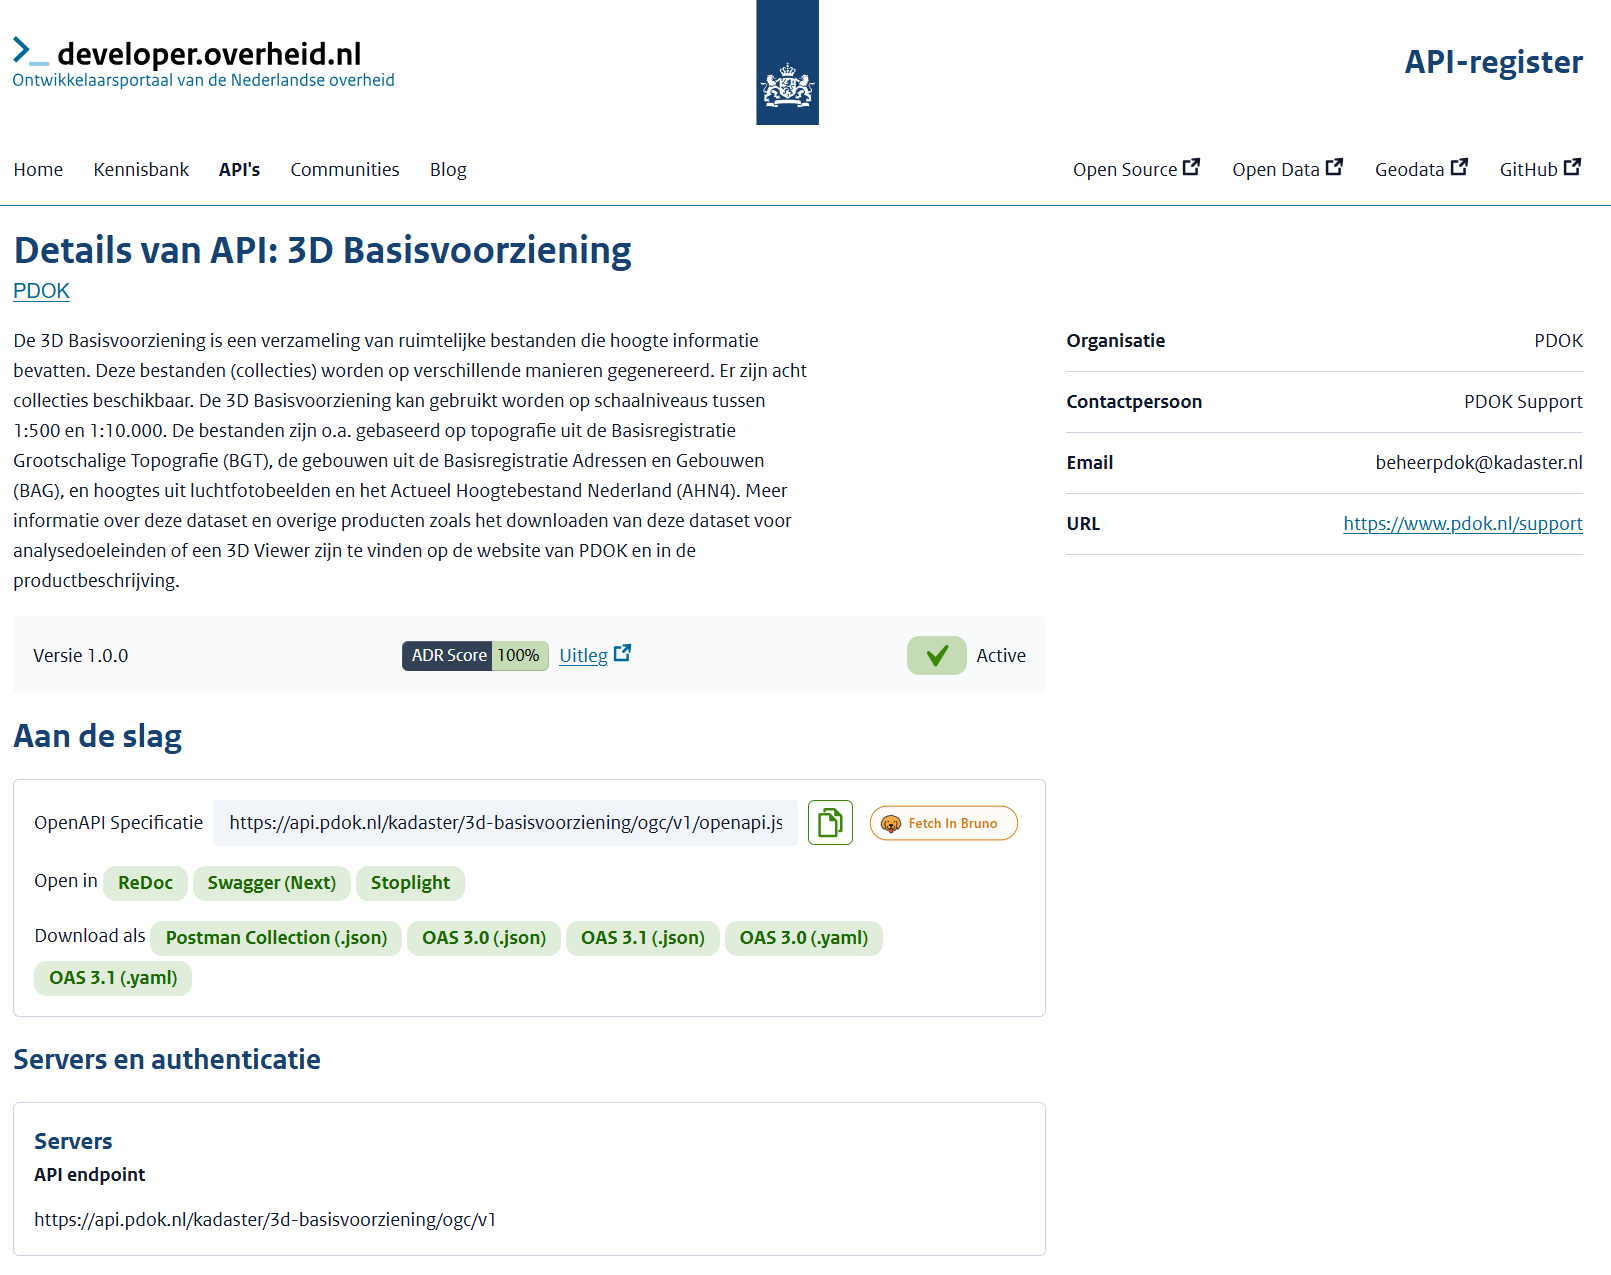
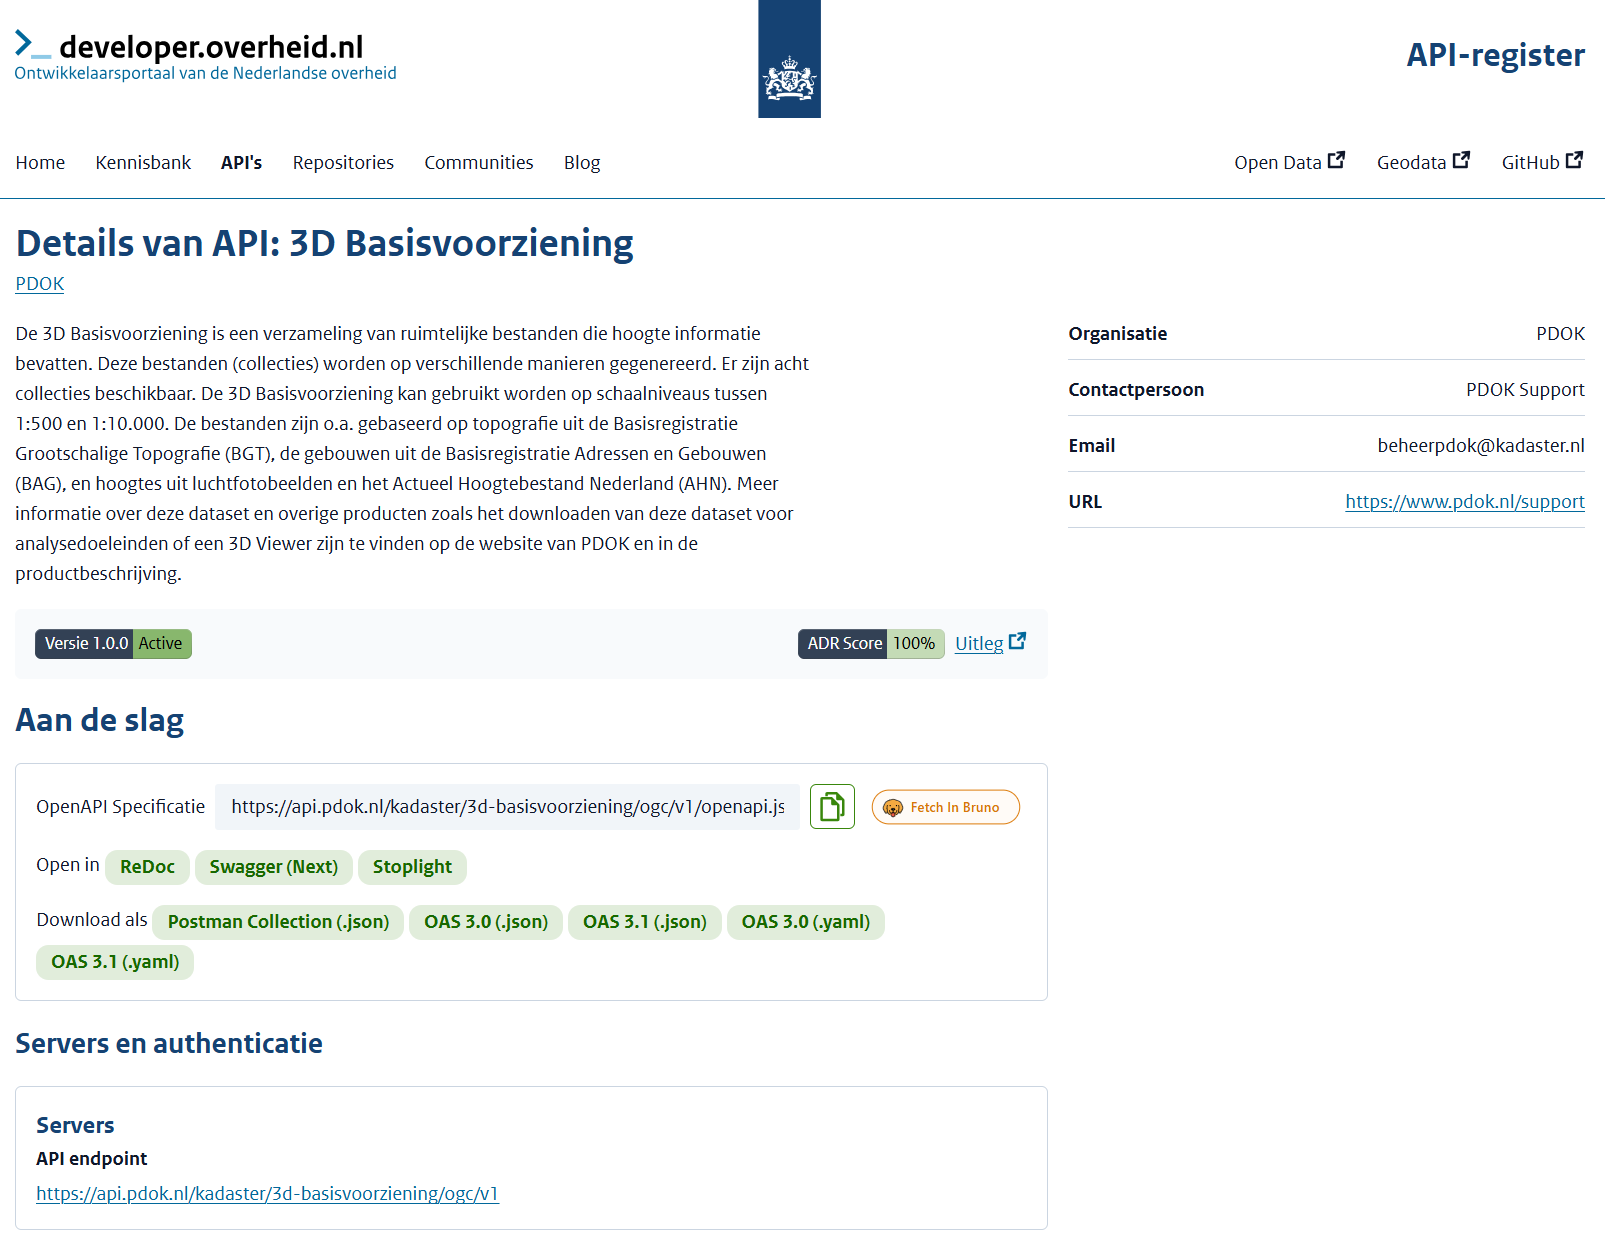
update

diff --git a/shows/fost-amsterdam-schemas/index.md b/shows/fost-amsterdam-schemas/index.md
@@ -4,8 +4,7 @@ theme: don
 headingDivider: 2
 ---
 
-# A National Schema Register
-## Reusable Components for Government API Design
+# A National Schema Register: Reusable Components for Government API Design
 <!-- _class: title -->
 <br/>
 
@@ -16,9 +15,8 @@ June 2026
 ## Dimitri van Hees
 
 - API architect, consumer, provider, developer
-- Co-author DSO and NL Gov API Strategy
-- OpenAPI Specification contributor (via PTOLU)
-- Product Owner and API architect @ developer.overheid.nl
+- Contributor NL Gov API Strategy
+- Product Owner and API architect @ developer.overheid.nls
 - Co-owner and beer brewer @ Brouwtoren, Nijmegen
 
 ## The problem
@@ -27,7 +25,7 @@ June 2026
 ## We share more than we reuse
 
 - Hundreds of public-sector APIs
-- All describe the same things: organisations, addresses, persons, dates, money, errors
+- All describe the same things: organisations, addresses, persons, dates, errors
 - All do it slightly differently
 - Each team reinvents the same JSON Schemas
 - Each consumer writes the same mapping code
@@ -38,7 +36,7 @@ June 2026
 - "Organisation" identified by chamber-of-commerce number, OIN, or a TOOI URI
 - Error responses: plain JSON, RFC 7807, or homegrown
 - Money as `number`, `string`, or `{amount, currency}`
-- Dates as ISO 8601... usually
+- Examples
 
 ## Why this matters
 
@@ -52,7 +50,7 @@ June 2026
 <!-- _class: image -->
 ![ptlo](./ptolu.png)
 <!--
-- PTOLU = the Dutch OpenAPI initiative
+- PTOLU = comply or explain
 - We've standardised HOW we describe APIs (OAS) and HOW they behave (ADR)
 - Missing piece: WHAT goes inside the schemas
 -->
@@ -66,17 +64,17 @@ June 2026
 
 ## What it offers
 
-- **Discoverability** — search across all reusable schemas and components
-- **Reusability** — `$ref` from any OAS
-- **Versioning** — semver, with clear deprecation
-- **Documentation** — human-readable docs alongside the JSON
-- **Codegen** — TypeScript types, Java classes, etc.
-- **Schema Design Rules** — to push standardisation further
+- **Discoverability**: search across all reusable schemas and components
+- **Reusability**: `$ref` from any OAS
+- **Versioning**: semver, with clear deprecation
+- **Documentation**: human-readable docs alongside the JSON
+- **Codegen**: TypeScript types, Java classes, etc.
+- **Schema Design Rules**: to push standardisation further
 
 ## Two layers: schemas and components
 
-- **JSON Schemas** — pure data shapes (`address.json`, `organisation.json`)
-- **OpenAPI components** — OAS-specific reusable bits (headers, parameters, responses)
+- **JSON Schemas**: pure data shapes (`address.json`, `organisation.json`)
+- **OpenAPI components** OAS-specific reusable bits (headers, parameters, responses)
 
 ## Inspiration: DVLA
 <!-- _class: image -->
@@ -113,6 +111,7 @@ June 2026
 ```json
 {
   "$schema": "https://json-schema.org/draft/2020-12/schema",
+  "$id": "https://schemas.developer.overheid.nl/beer.json",
   "type": "object",
   "properties": {
     "name":    { "type": "string" },
@@ -121,23 +120,6 @@ June 2026
     }
   },
   "required": ["name", "brewery"]
-}
-```
-
-## Schemas reference schemas
-
-```json
-{
-  "$schema": "https://json-schema.org/draft/2020-12/schema",
-  "type": "object",
-  "properties": {
-    "name":    { "type": "string" },
-    "url":     { "type": "string" },
-    "address": {
-      "$ref": "https://schemas.developer.overheid.nl/address.json"
-    }
-  },
-  "required": ["name"]
 }
 ```
 
@@ -165,7 +147,7 @@ responses:
 
 ## Why design rules for schemas
 
-- ADR governs how an API behaves
+- API Design Rules (ADR) governs how an API behaves
 - The Schema Register governs **what canonical building blocks exist**
 - Schema Design Rules (SDR) govern **how to write reusable schemas**
 - Same idea, one layer deeper
@@ -174,24 +156,30 @@ responses:
 
 - Use JSON Schema draft 2020-12
 - One concept per schema, one schema per file
-- Canonical identifiers (TOOI URIs for organisations)
-- Required fields are declared, not implied
+- Title is mandatory
+- Description is mandatory
+- Required fields are declared
 - Examples are mandatory
 - Semantic versioning, with deprecation metadata
-- Naming: kebab-case files, camelCase properties
+- Naming conventions: `kebab-case` files, `camelCase` properties
+- Standardised extensions: `x-jsonld-*`
+
+## JSON-LD
+<!-- _class: image -->
+![jsonld](./json-ld.png)
 
 ## How it all fits together
 
-- **OAS** — how we describe APIs
-- **ADR** — how APIs behave
-- **Schema Register** — what we describe APIs *with*
-- **SDR** — how we write the schemas in the register
+- **OAS**: how we describe APIs
+- **ADR**: how APIs behave
+- **Schema Register**: what we describe APIs *with*
+- **SDR**: how we write the schemas in the register
 - One coherent stack, four standards, hundreds of APIs
 
 ## Tooling
 <!-- _class: title -->
 
-## DON Checker, now CLI-first
+## DON Checker
 
 ```bash
 npx @developer-overheid-nl/don-checker@latest \
@@ -204,6 +192,18 @@ npx @developer-overheid-nl/don-checker@latest \
 - Multiple versions per standard
 - Results grouped by severity: error, warning, info, hint
 - Same engine that runs in the API register
+
+## OAS Generator
+
+```bash
+npx github:developer-overheid-nl/oas-generator \
+  input.json \
+  -o openapi.json
+```
+
+- DRY principle
+- Consistent patterns
+- Boilerplate for AI agents (and humans)
 
 ## Codegen from canonical schemas
 
@@ -234,17 +234,17 @@ export interface Address {
 - Reuse only works if it's the easy path
 - Designers shouldn't have to hunt for the right schema
 - LLMs are very good at "find me the thing that matches this"
-- We use AI to pull canonical components into new designs
+- We can use AI to pull canonical components into new designs
 
 ## A typical workflow
 
 1. Describe the API in natural language
-2. AI proposes endpoints and request/response shapes
-3. AI searches the Schema Register for matching components
-4. Reuse where possible, propose new schemas where not
-5. Emit a complete OpenAPI 3.1 spec with `$ref`s to canonical schemas
-6. Validate against ADR + SDR
-7. Iterate
+1. Agent loads NL Gov Skills
+1. AI searches the Schema Register for matching components (MCP)
+1. Reuse where possible, propose new schemas where not
+1. Generate a complete OpenAPI 3.1 spec with `$ref`s to canonical schemas with our OAS generator
+1. Validate against ADR + SDR
+1. Iterate
 
 ## From prompt to spec
 
@@ -257,25 +257,14 @@ export interface Address {
 ## Demo
 <!-- _class: title -->
 
-## Project landscape
-<!-- _class: image -->
-![hla](./hla.png)
-
 ## Where it's headed
 
 - Open the register to broader contribution
 - Schema Design Rules → draft → comply-or-explain
 - JSON-LD coupling for semantics
-- New Kennisplatform API's working group: JSON Schema
-- Federate with other registers (TOOI, semantic registers, EU)
+- New API Knowledge Platform working group: JSON Schema
+- Federate with other registers (semantic registers, EU)
 - More AI skills, better feedback loops
-
-## How to help
-
-- Contribute schemas you already maintain
-- Review the draft Schema Design Rules
-- Try the tooling, file issues
-- Join the working group: <d.vanhees@geonovum.nl>
 
 ## Thank you!
 <!-- _class: title -->

diff --git a/shows/fost-amsterdam-don/index.md b/shows/fost-amsterdam-don/index.md
@@ -15,9 +15,8 @@ June 2026
 ## Dimitri van Hees
 
 - API architect, consumer, provider, developer
-- Co-author DSO and NL Gov API Strategy
-- OpenAPI Specification contributor (via PTOLU)
-- Product Owner and API architect @ developer.overheid.nl
+- Contributor NL Gov API Strategy
+- Product Owner and API architect @ developer.overheid.nls
 - Co-owner and beer brewer @ Brouwtoren, Nijmegen
 
 ## A quick rewind
@@ -42,7 +41,7 @@ June 2026
 - "It provides **self-service tools** to get devs integrated quickly and easily."
 - "And it gives folks **a place to go when they have questions**."
 
-https://www.opslevel.com/resources/developer-portals-what-are-they-and-why-do-you-need-them
+<https://www.opslevel.com/resources/developer-portals-what-are-they-and-why-do-you-need-them>
 
 ## developer.overheid.nl
 <!-- _class: title -->
@@ -58,21 +57,24 @@ https://www.opslevel.com/resources/developer-portals-what-are-they-and-why-do-yo
 - Tools
 - Open Source register
 - API register
+- Schema register
 
 ## Two audiences, one platform
 
 **For developers building on government APIs:**
+
 - Find the right API
 - Understand the rules of the road (ADR)
 - Self-serve docs, SDKs, mocks
 - Know when things change
 
 **For government organisations publishing APIs:**
+
 - A single, consistent place to be found
 - Free tooling and validation
 - Standardisation without losing autonomy
 
-## Why now?
+## Why it's more important than ever
 
 - Serious incidents with local copies of government data
 - "Data at the source" principle
@@ -106,26 +108,22 @@ Both on the Dutch "comply-or-explain" list, governed by Forum Standaardisatie an
 ## What we get from OAS
 
 - Name & description (`info`)
-- Contact info (`info.contact` — ADR 2.1)
+- Contact info (`info.contact`)
 - Environments (`servers`)
-- Security (`securitySchemes`, mTLS from OAS 3.1)
+- Security (`securitySchemes`)
 - Examples for mocking and code generation
 - JSON Schemas (proper, from OAS 3.1)
-
-## Submission flow
-<!-- _class: image -->
-![aanleverprocedure](./aanlevering.png)
 
 ## How it works
 
 1. `POST` URL of the OAS document to our _API register API_
-2. Validate OAS and presence of a `contact` object
-3. If valid, add the URL to the register
-4. Make a local dereferenced copy of the OAS
-5. Convert 3.0 ↔ 3.1, YAML ↔ JSON
-6. Generate goodies (SDKs, Bruno, Postman, etc.)
-7. Validate against the API Design Rules → score
-8. Poll for changes; on change, return to step 4
+1. Validate OAS and presence of a `contact` object
+1. If valid, add the URL to the register
+1. Make a local dereferenced copy of the OAS
+1. Convert 3.0 ↔ 3.1, YAML ↔ JSON
+1. Generate goodies (SDKs, Bruno, Postman, etc.)
+1. Validate against the API Design Rules → score
+1. Poll for changes; on change, return to step 4
 
 ## Adding an API
 
@@ -149,17 +147,13 @@ Both on the Dutch "comply-or-explain" list, governed by Forum Standaardisatie an
   "title": "Bad Request",
   "status": 400,
   "detail": "Contact info could not be extracted from OAS",
-  "invalidParams": [
+  "errors": [
     { "name": "contact.name",  "reason": "Missing" },
     { "name": "contact.email", "reason": "Missing" },
     { "name": "contact.url",   "reason": "Missing" }
   ]
 }
 ```
-
-## What follows
-
-![vervolg](./vervolg.png)
 
 ## API Design Rules (ADR)
 <!-- _class: title -->
@@ -225,6 +219,12 @@ info:
 - `Sunset`
 - `Retired` (you can't `DELETE` an API from the register)
 
+## Subscribe to API
+
+- Good old RSS
+- Slack: `/feed subscribe https://api.developer.overheid.nl/api-register/v1/apis/dicF0B3HR/feed.rss`
+- Notifications on changes in lifecycle, design, ADR score, uptime, etc.
+
 ## Beyond the register
 <!-- _class: title -->
 
@@ -235,10 +235,6 @@ info:
 ## OAS generator
 <!-- _class: image -->
 ![oasgenerator](./oasgenerator.png)
-
-## Project landscape
-<!-- _class: image -->
-![hla](./hla.png)
 
 ## Separate repositories
 
@@ -261,14 +257,11 @@ info:
 ## Where it's headed
 
 - Stable and compliant landscape
-- Notifications (RSS, webhooks)
 - JSON Schema & components register
-- Launching customer of `code.developer.overheid.nl`
+- Launching customer of `code.overheid.nl`
 - Tooling improvements
-- Upgrade standard to OAS 3.1 (and hopefully 3.2)
-- MCP
 
-## Thank you!
+## Thank you
 <!-- _class: title -->
 <br/><br/>
 Dimitri van Hees
